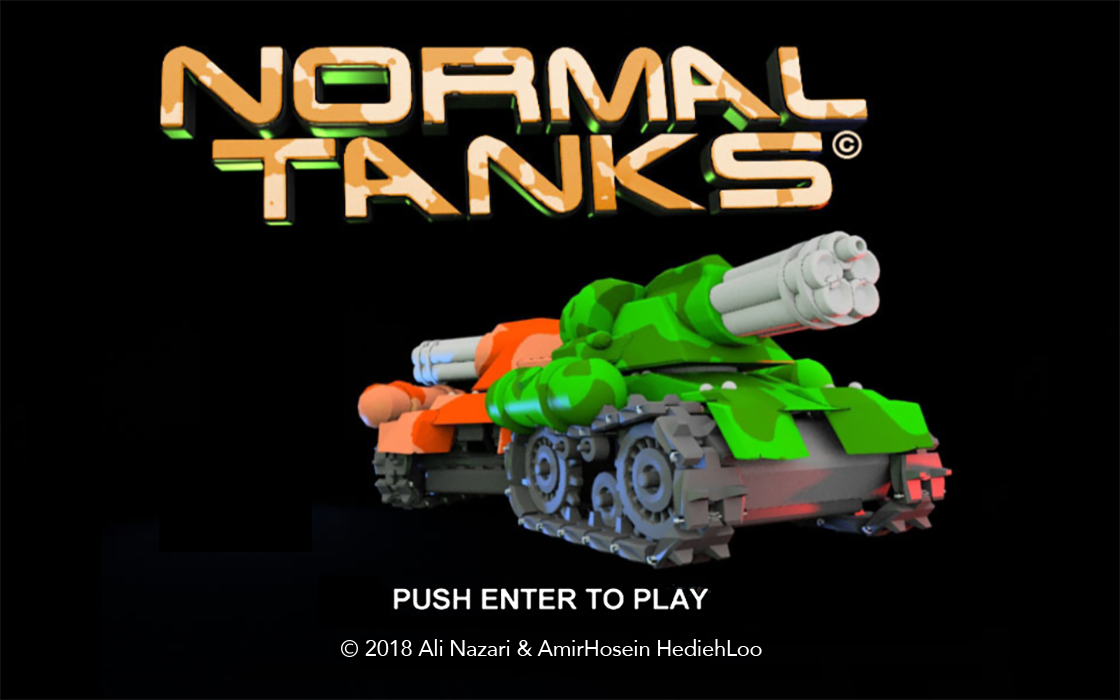
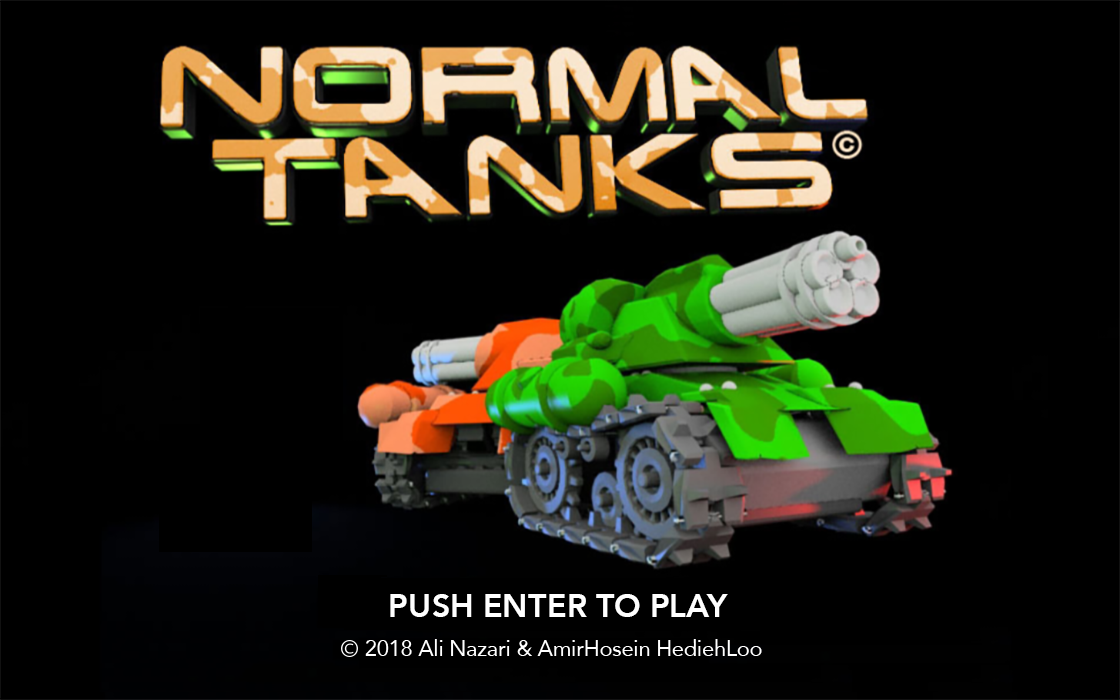
menu 1player done + before mehdi came

Changed region(s): [[0.3438, 0.84, 0.6562, 0.9]]

diff --git a/src/game/template/bufferstrategy/Game.java b/src/game/template/bufferstrategy/Game.java
@@ -18,14 +18,55 @@ import javax.swing.JFrame;
  *
  * @author Seyed Mohammad Ghaffarian
  */
-public class Main
+public class Game
 {
-    public static void main(String[] args)
+    public Game(int input)
     {
-        //MainMenu menu = new MainMenu();
-
         // Initialize the global thread-pool
         ThreadPool.init();
+
+        EventQueue.invokeLater(new Runnable()
+        {
+            @Override
+            public void run()
+            {
+                SharedData sharedData = new SharedData();
+                GameFrame frame = new GameFrame("Normal Tanks");
+                frame.setLocationRelativeTo(null); // put frame at center of screen
+                frame.setDefaultCloseOperation(JFrame.EXIT_ON_CLOSE);
+                frame.setVisible(true);
+                frame.initBufferStrategy();
+                // Create and execute the game-loop
+                GameLoop game = new GameLoop(frame);
+                if (input == 10)
+                {
+                    System.out.println("Single Started");
+                    SharedData.getData().gameType = ObjectId.SinglePlayer;
+                    SharedData.getData().playerType = ObjectId.Alone;
+                }
+                /*else if(a == 2){
+                    System.out.println("Coop started");
+                    SharedData.getData().gameType = ObjectId.TwoPlayer;
+                    System.out.println("1-Host or 2-Client");
+                    a = scanner.nextInt();
+                    scanner.nextLine();
+                    if( a == 1 ){
+                        System.out.println("U R Host");
+                        SharedData.getData().playerType = ObjectId.ServerPlayer;
+                        frame.setTitle("Server");
+                    }
+                    else if( a == 2 ){
+                        System.out.println("U R Client");
+                        frame.setTitle("Client");
+                        SharedData.getData().playerType = ObjectId.ClientPlayer;
+                    }
+                }*/
+                game.init();
+                ThreadPool.execute(game);
+                // and the game starts ...
+            }
+        });
+
 //        System.out.println(new Date().getTime());
 //        try {
 //            Thread.sleep(1000);
@@ -33,8 +74,8 @@ public class Main
 //            e.printStackTrace();
 //        }
 //        System.out.println(new Date().getTime());
-        // After the player clicks 'PLAY' ...
-        EventQueue.invokeLater(new Runnable()
+                // After the player clicks 'PLAY' ...
+        /*EventQueue.invokeLater(new Runnable()
         {
             @Override
             public void run()
@@ -78,6 +119,6 @@ public class Main
                 ThreadPool.execute(game);
                 // and the game starts ...
             }
-        });
+        });*/
     }
 }

diff --git a/src/game/template/bufferstrategy/GameFrame.java b/src/game/template/bufferstrategy/GameFrame.java
@@ -97,7 +97,7 @@ public class GameFrame extends JFrame
     {
         Utility.tankAnimation.runAnimation();
         AffineTransform gameTransform = g2d.getTransform();
-//        g2d.translate(-state.camera.getX(), -state.camera.getY());
+        g2d.translate(-state.camera.getX(), -state.camera.getY());
 
         //render map
         state.objects.getMap().render(g2d);
@@ -120,7 +120,7 @@ public class GameFrame extends JFrame
         //draw player tank
         for (int i = 0; i < state.objects.getPlayers().size(); i++)
         {
-//            state.camera.tick(state.objects.getPlayers().get(i));
+            state.camera.tick(state.objects.getPlayers().get(i));
 
             int centerX = (int) state.objects.getPlayers().get(i).getX() + state.objects.getPlayers().get(i).TANK_WIDTH / 2; //this is the X center of the player
             int centerY = (int) state.objects.getPlayers().get(i).getY() + state.objects.getPlayers().get(i).TANK_HEIGHT / 2; //this is the Y center of the player
@@ -186,7 +186,7 @@ public class GameFrame extends JFrame
                 g2d.drawImage(Utility.buriedRobot, null, (int) robots.get(i).getX(), (int) robots.get(i).getY());
             }
         }
-//        g2d.translate(state.camera.getX(), state.camera.getY());
+        g2d.translate(state.camera.getX(), state.camera.getY());
     }
 
     private void drawBullet(AffineTransform gameTransform, Graphics2D g2d, Bullet bullet, Camera camera)

diff --git a/src/game/template/bufferstrategy/MainMenu.java b/src/game/template/bufferstrategy/MainMenu.java
@@ -26,6 +26,11 @@ public class MainMenu extends JFrame
 
     int output;
 
+    public static void main(String[] args)
+    {
+        new MainMenu();
+    }
+
     public MainMenu()
     {
         super("Normal Tanks");
@@ -129,19 +134,24 @@ public class MainMenu extends JFrame
             if (e.getSource().equals(multiPlayerButton))
             {
                 System.out.println("multiPlayerButton");
+                output = 20;
             }
             if (e.getSource().equals(settingButton))
             {
                 System.out.println("settingButton");
+                //output = 10;
             }
             if (e.getSource().equals(aboutButton))
             {
                 System.out.println("aboutButton");
+                //output = 10;
             }
             if (e.getSource().equals(exitButton))
             {
                 System.out.println("exitButton");
+                //output = 10;
             }
+            new Game(output);
         }
     }
 

diff --git a/src/game/template/bufferstrategy/GameState.java b/src/game/template/bufferstrategy/GameState.java
@@ -51,8 +51,8 @@ public class GameState
         //
         keyHandler = new KeyHandler();
         mouseHandler = new MouseHandler();
-        camera = new Camera(803, 5450);
-//        camera = new Camera(0, 0);
+//        camera = new Camera(803, 5450);
+        camera = new Camera(0, 0);
     }
 
     /**
